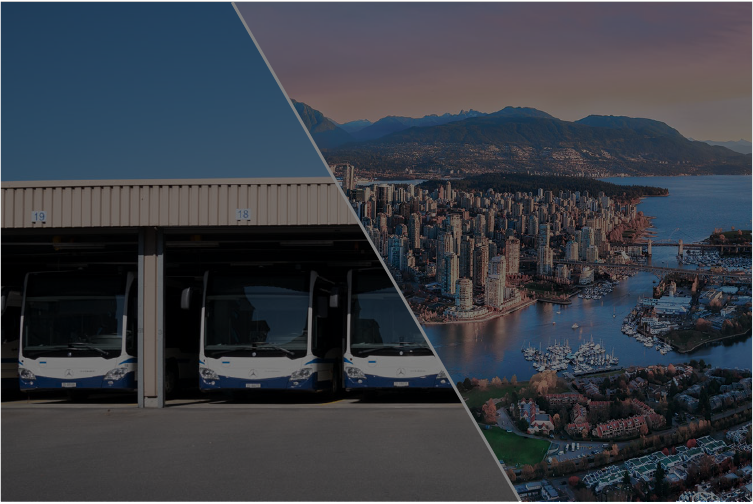
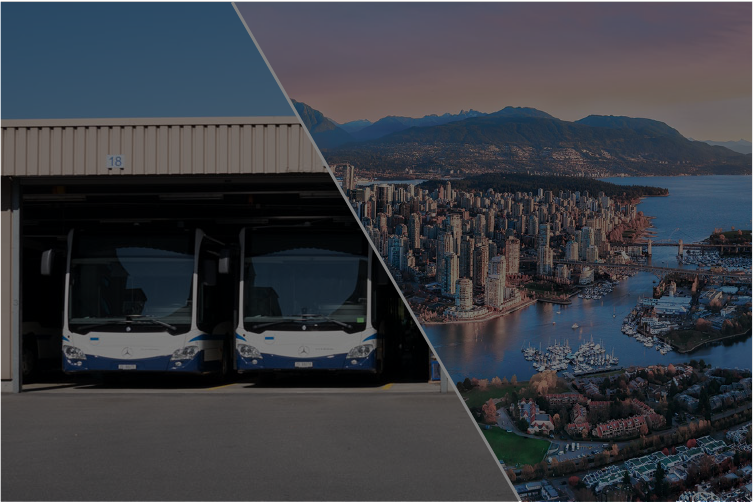
positioning ll5 - v180826-12.26

diff --git a/html/marcel2/css/main.css b/html/marcel2/css/main.css
@@ -415,7 +415,7 @@ article {
   background-size: cover;
 }
 #art5 {
-  background: url("../img/lebenslauf-5.png") no-repeat 50% 50%;
+  background: url("../img/lebenslauf-5.png") no-repeat 50% 60%;
   background-size: cover;
 }
 #art6 {
